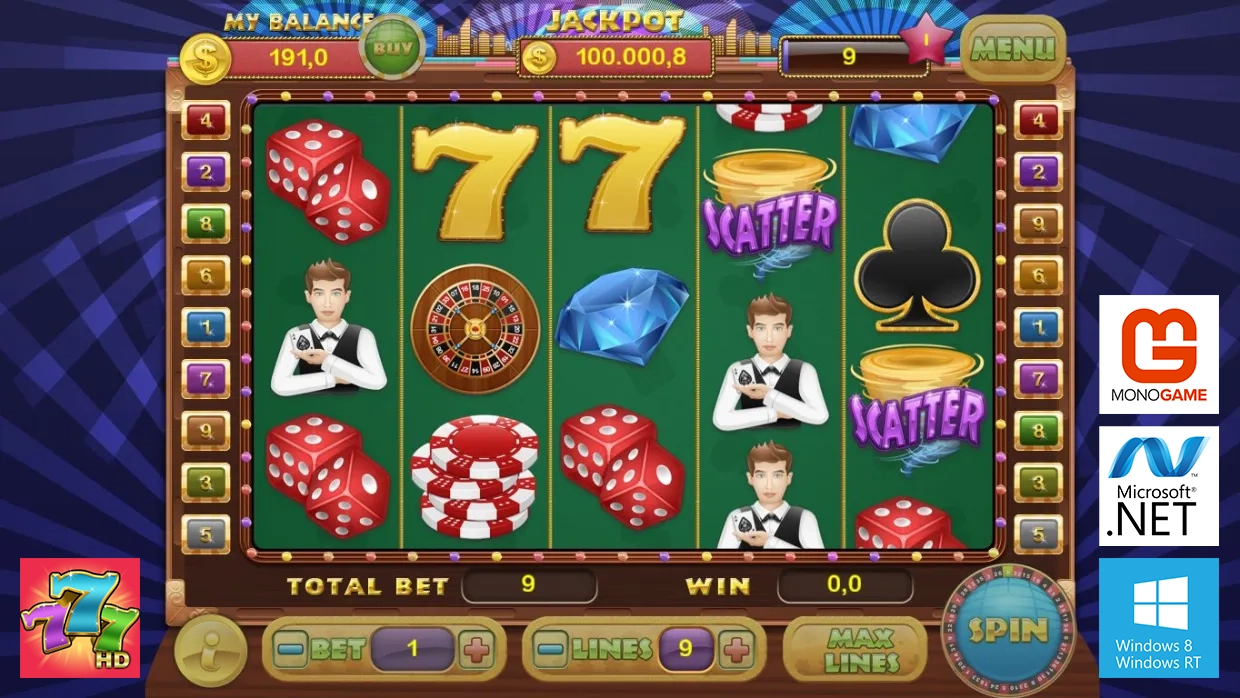
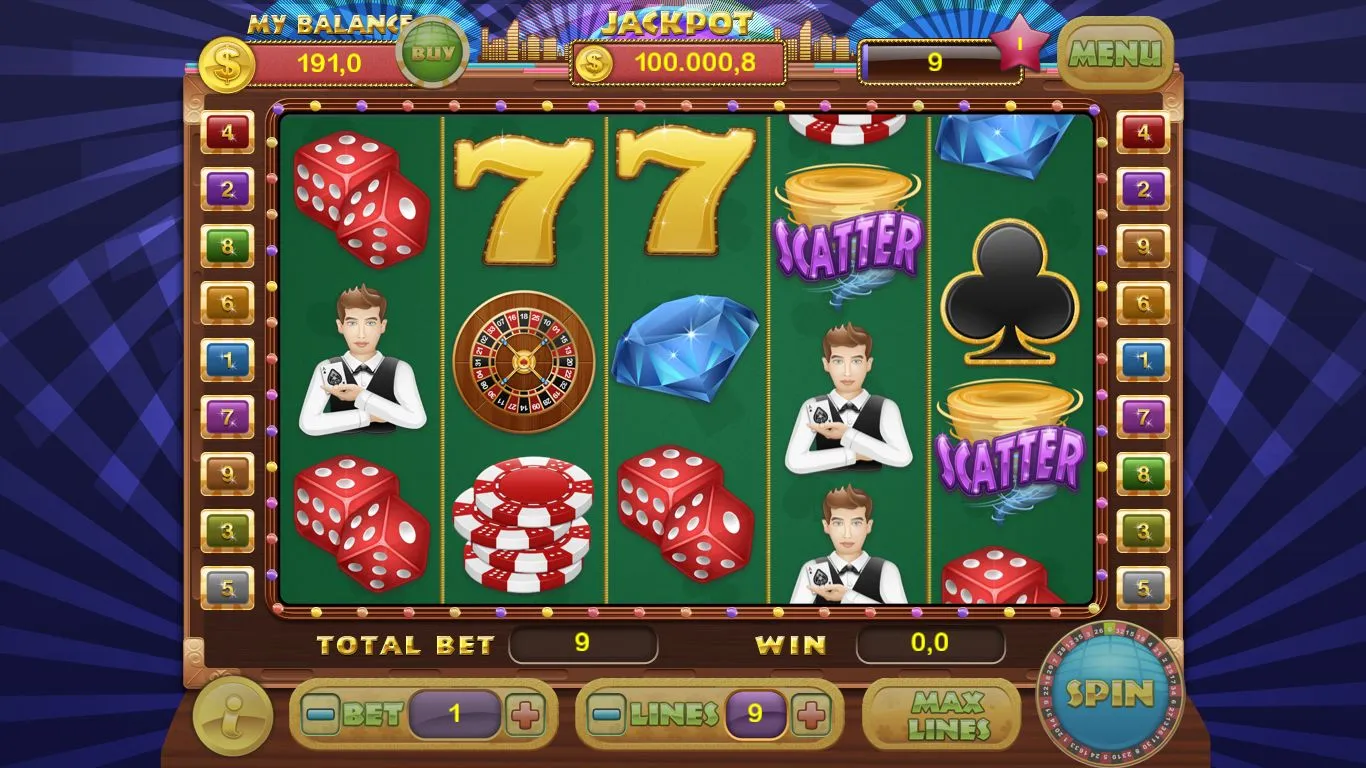
Updated project pages
- Cleared thumbnails on some projects (removed logos mostly).
- Updated Soul Gun repository project link to the new GitHub repository.

diff --git a/projects/soul-gun.html b/projects/soul-gun.html
@@ -782,7 +782,7 @@ Platformer
 
 
 
-<a href="https://bitbucket.org/VisualStudioEX3/malaga-jam-week-vi" target="_blank">Soul Gun on Bitbucket</a></span>
+<a href="https://github.com/VisualStudioEX3/soul-gun" target="_blank">Soul Gun on GitHub</a></span>
     
   </div>
   
